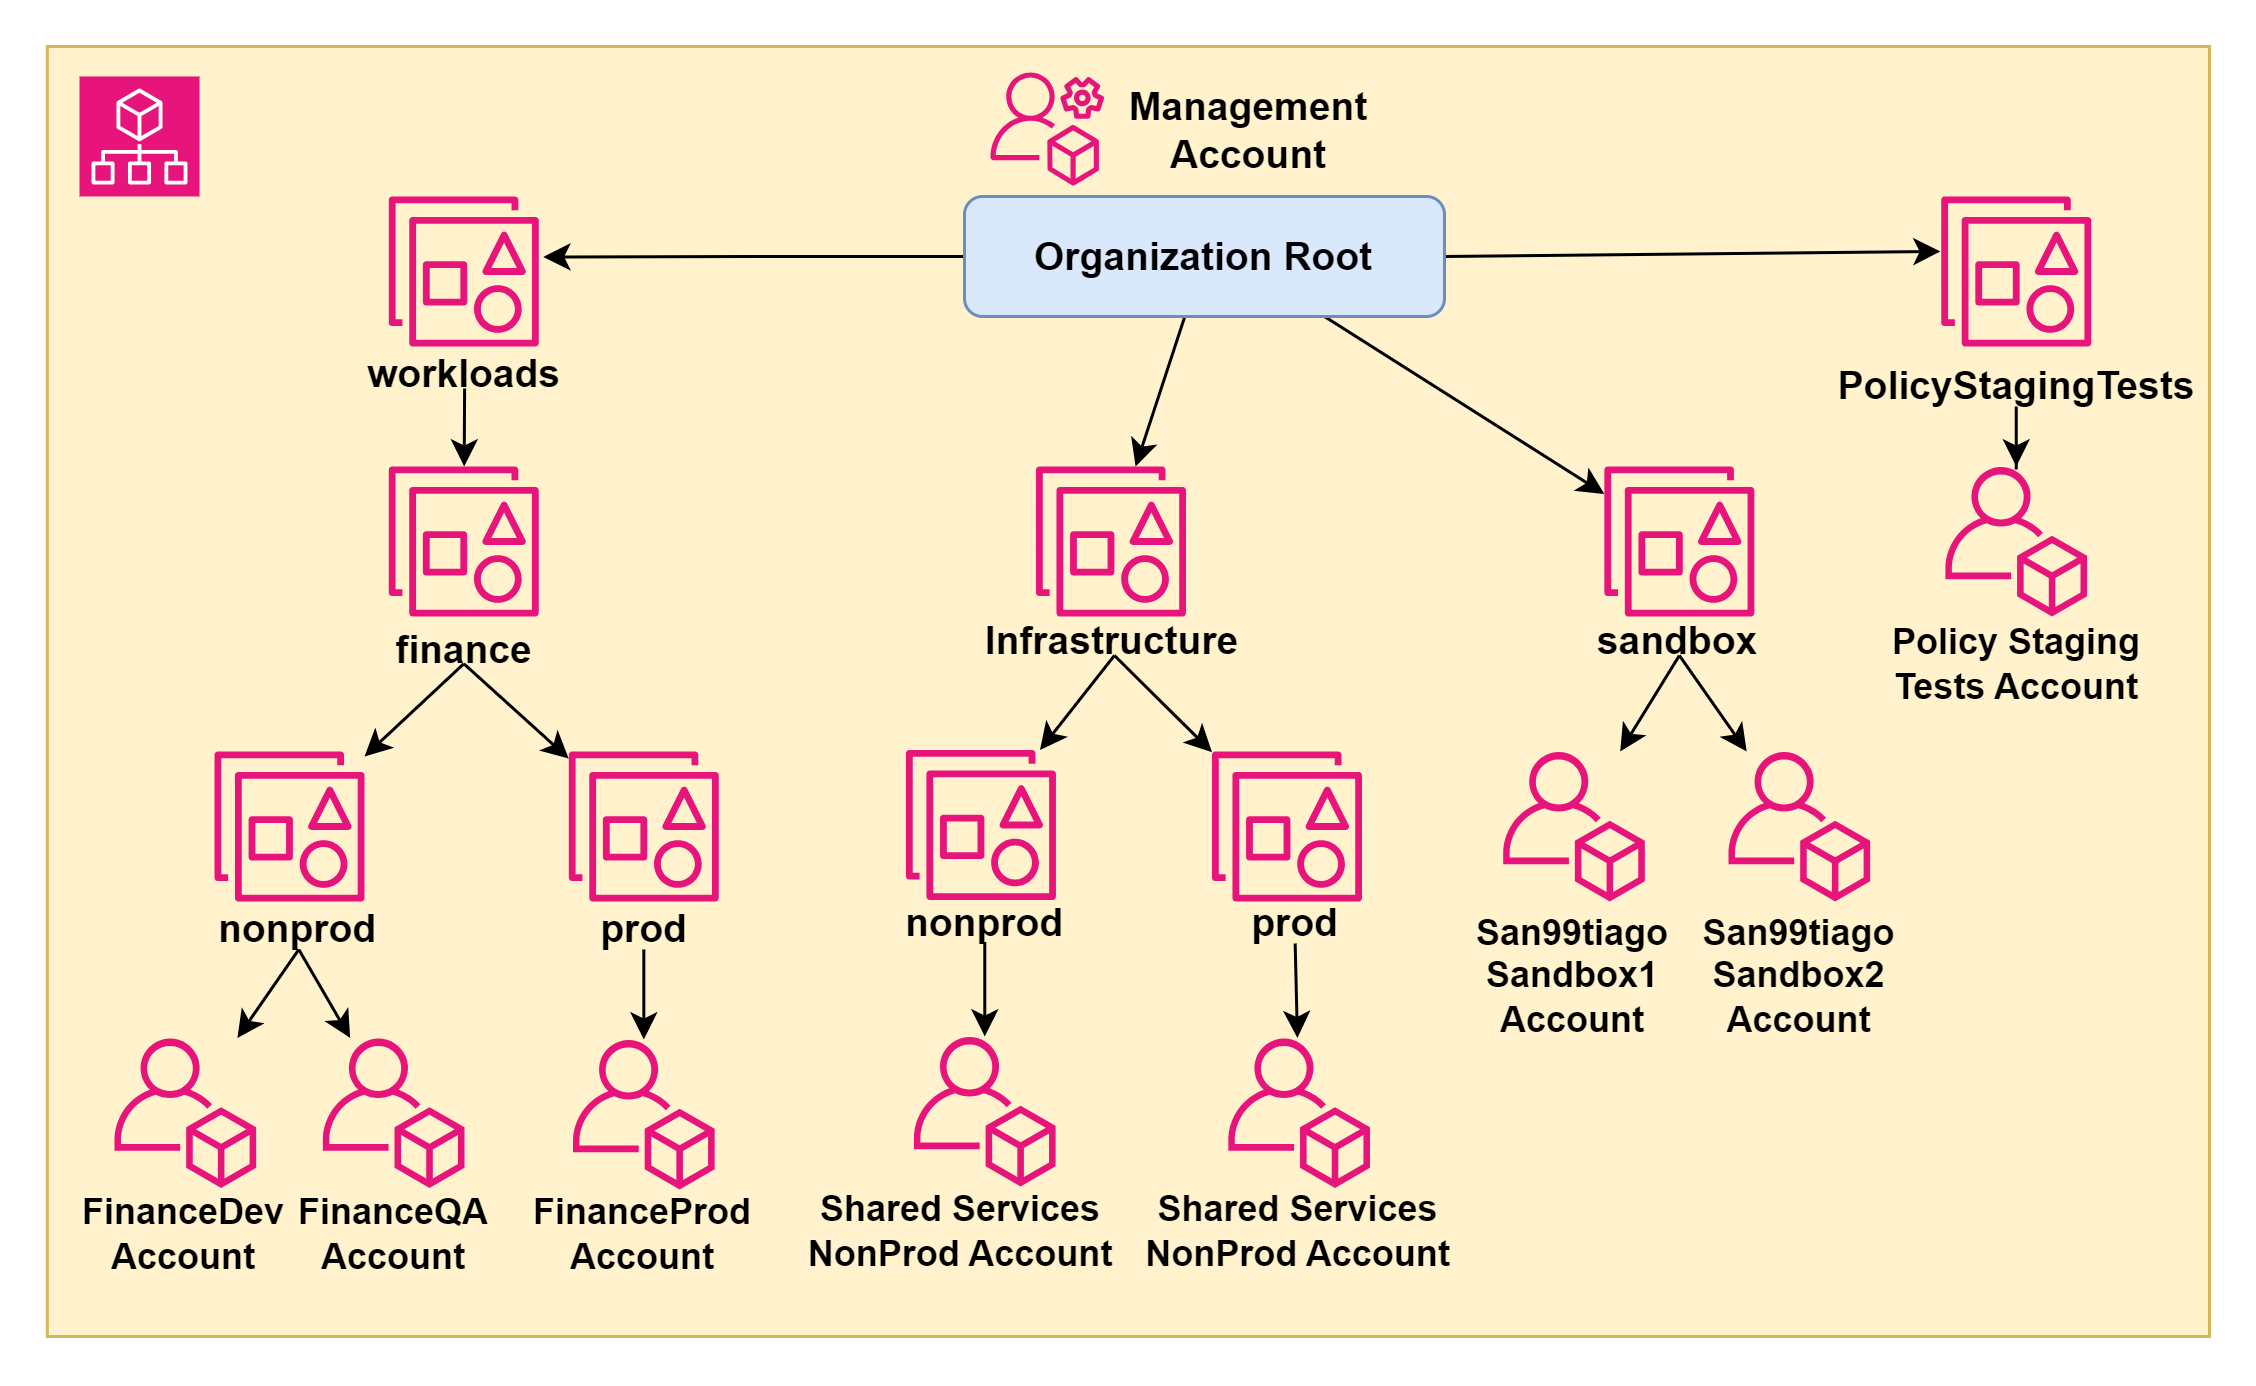
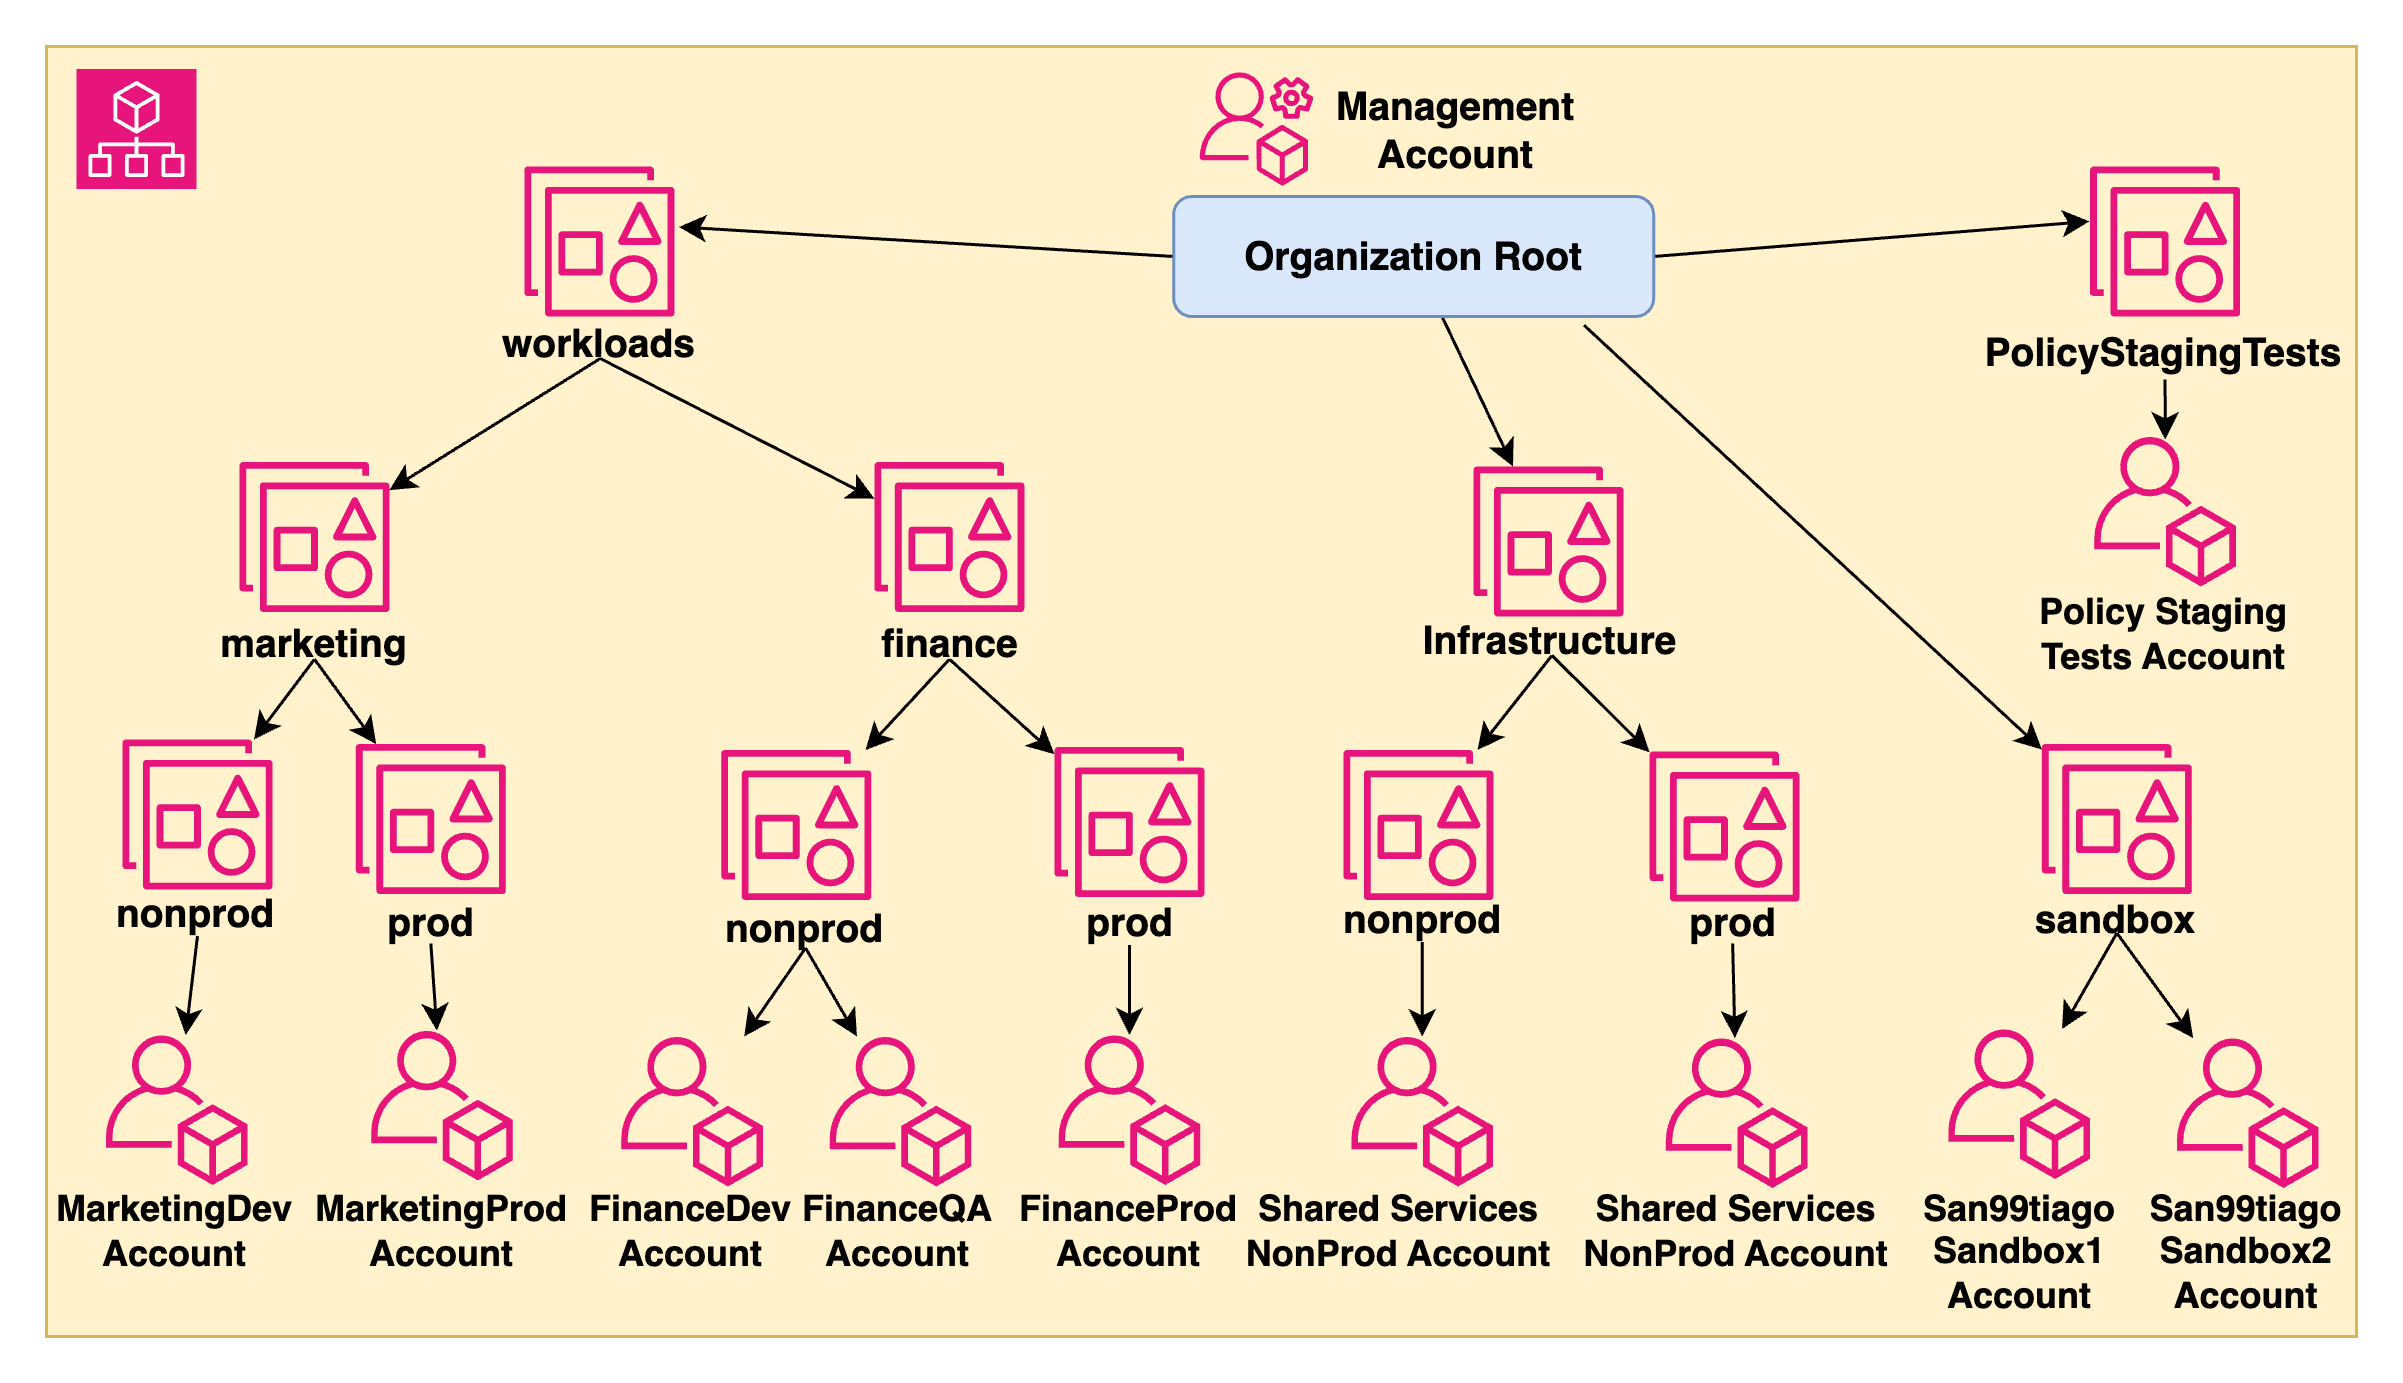
Add Marketing OUs and Accounts for DEMO purpose (#10)
* Add <marketing> OUs for demo purpose

* Update Organization diagram with marketing OU

* Update Marketing OUs in documentation

* Update Marketing OUs in docs

diff --git a/cdk/stacks/cdk_organization.py b/cdk/stacks/cdk_organization.py
@@ -62,6 +62,8 @@ class OrganizationStack(Stack):
         self.create_ou_workloads()
         self.create_ou_finance()
         self.create_accounts_inside_ou_finance()
+        self.create_ou_marketing()
+        self.create_accounts_inside_ou_marketing()
 
         # Create "policy_staging_tests" OU with inner OUs and accounts inside
         self.create_ou_policy_staging_tests()
@@ -291,6 +293,52 @@ class OrganizationStack(Stack):
             role_name="OrganizationAccountAccessRole",
         )
 
+    def create_ou_marketing(self):
+        """
+        Method that creates inner Organizational Units (OUs) inside the AWS
+        Organization for "Marketing".
+        """
+        self.ou_marketing = OrganizationalUnit(
+            self,
+            "OUMarketing",
+            parent=self.top_level_ou_workloads,
+            organizational_unit_name="marketing",
+        )
+        self.ou_marketing_non_prod = OrganizationalUnit(
+            self,
+            "OUMarketingNonProd",
+            parent=self.ou_marketing,
+            organizational_unit_name="non-prod",
+        )
+        self.ou_marketing_prod = OrganizationalUnit(
+            self,
+            "OUMarketingProd",
+            parent=self.ou_marketing,
+            organizational_unit_name="prod",
+        )
+
+    def create_accounts_inside_ou_marketing(self):
+        """
+        Method that creates AWS Accounts inside the Organizational Units (OUs)
+        for "Marketing".
+        """
+        self.account_marketing_dev = Account(
+            self,
+            "AccountMarketingDev",
+            account_name="marketing-dev",
+            email="san99tiagodemo+marketing-dev@gmail.com",
+            parent=self.ou_marketing_non_prod,
+            role_name="OrganizationAccountAccessRole",
+        )
+        self.account_marketing_prod = Account(
+            self,
+            "AccountMarketingProd",
+            account_name="marketing-prod",
+            email="san99tiagodemo+marketing-prod@gmail.com",
+            parent=self.ou_marketing_prod,
+            role_name="OrganizationAccountAccessRole",
+        )
+
     def create_ou_policy_staging_tests(self):
         """
         Method that creates inner Organizational Units (OUs) inside the AWS
@@ -336,7 +384,11 @@ class OrganizationStack(Stack):
         self.account_finance_dev.node.add_dependency(self.account_shared_services_prod)
         self.account_finance_qa.node.add_dependency(self.account_finance_dev)
         self.account_finance_prod.node.add_dependency(self.account_finance_qa)
-        self.account_policy_staging_tests.node.add_dependency(self.account_finance_prod)
+        self.account_marketing_dev.node.add_dependency(self.account_finance_prod)
+        self.account_marketing_prod.node.add_dependency(self.account_marketing_dev)
+        self.account_policy_staging_tests.node.add_dependency(
+            self.account_marketing_prod
+        )
 
     def generate_cloudformation_outputs(self):
         """
@@ -425,6 +477,20 @@ class OrganizationStack(Stack):
             "AccountFinanceProdId",
             value=self.account_finance_prod.account_id,
             description="ID of AccountFinanceProd Account",
+        )
+
+        CfnOutput(
+            self,
+            "AccountMarketingDevId",
+            value=self.account_marketing_dev.account_id,
+            description="ID of AccountMarketingDev Account",
+        )
+
+        CfnOutput(
+            self,
+            "AccountMarketingProdId",
+            value=self.account_marketing_prod.account_id,
+            description="ID of AccountMarketingProd Account",
         )
 
         CfnOutput(

diff --git a/README.md b/README.md
@@ -22,12 +22,17 @@ OURoot/
 │   └── 📝OUInfrastructureProd/
 │       └── 🏠AccountSharedServicesProd
 ├── 📝OUWorkloads/
-│   └── 📝OUFinance/
-│       ├── 📝OUFinanceNonProd/
-│       │   ├── 🏠AccountFinanceDev
-│       │   └── 🏠AccountFinanceQA
-│       └── 📝OUFinanceProd/
-│           └── 🏠AccountFinanceProd
+│   ├── 📝OUFinance/
+│   │   ├── 📝OUFinanceNonProd/
+│   │   │   ├── 🏠AccountFinanceDev
+│   │   │   └── 🏠AccountFinanceQA
+│   │   └── 📝OUFinanceProd/
+│   │       └── 🏠AccountFinanceProd
+│   └── 📝OUMarketing/
+│       ├── 📝OUMarketingNonProd/
+│       │   ├── 🏠AccountMarketingDev
+│       └── 📝OUMarketingProd/
+│           └── 🏠AccountMarketingProd
 └── 📝OUPolicyStagingTests/
     └── 🏠AccountPolicyStagingTests
 ```
